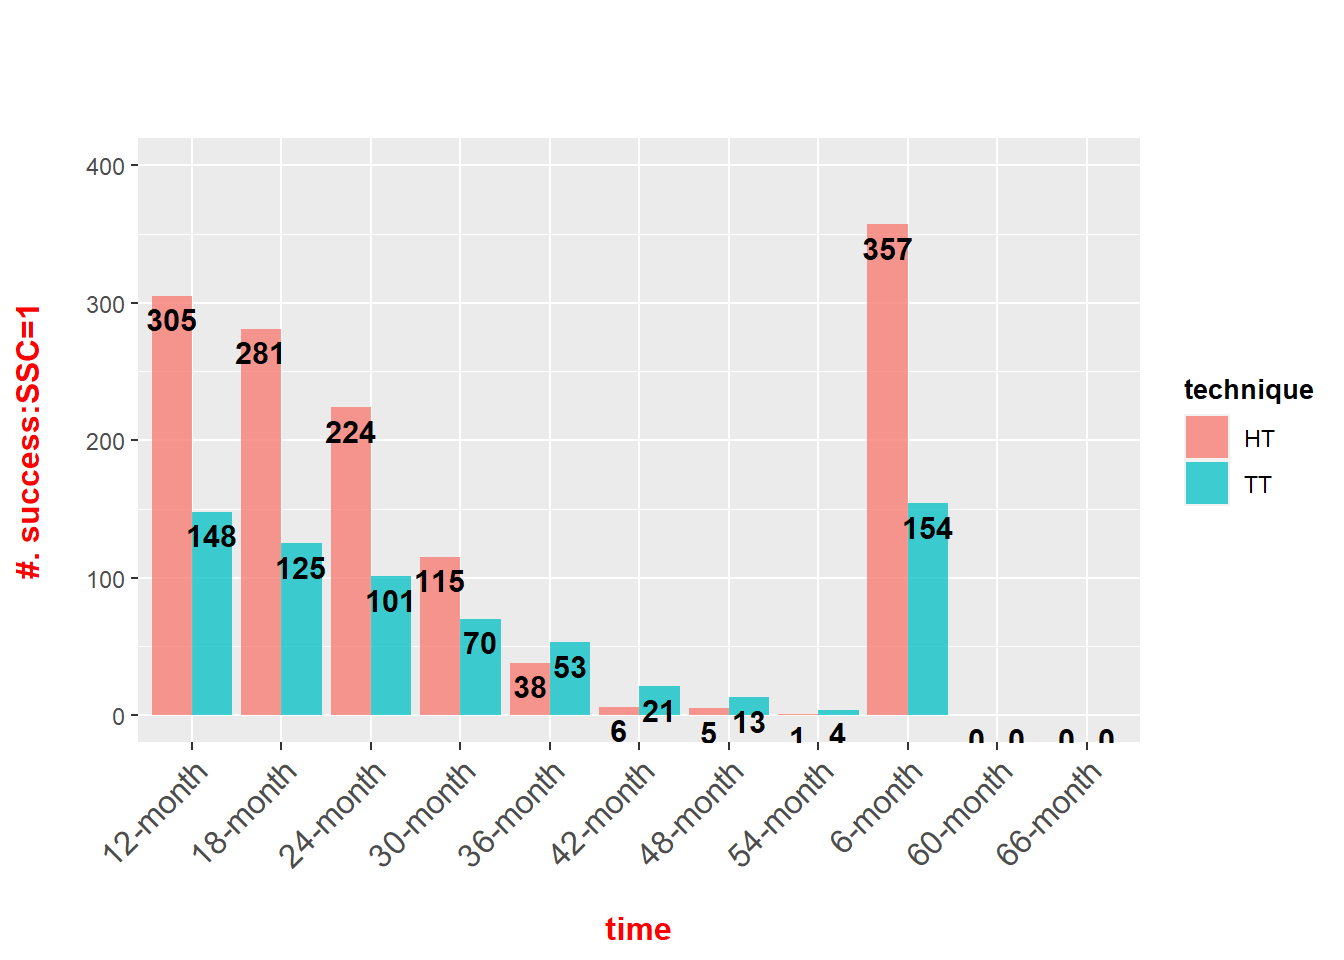
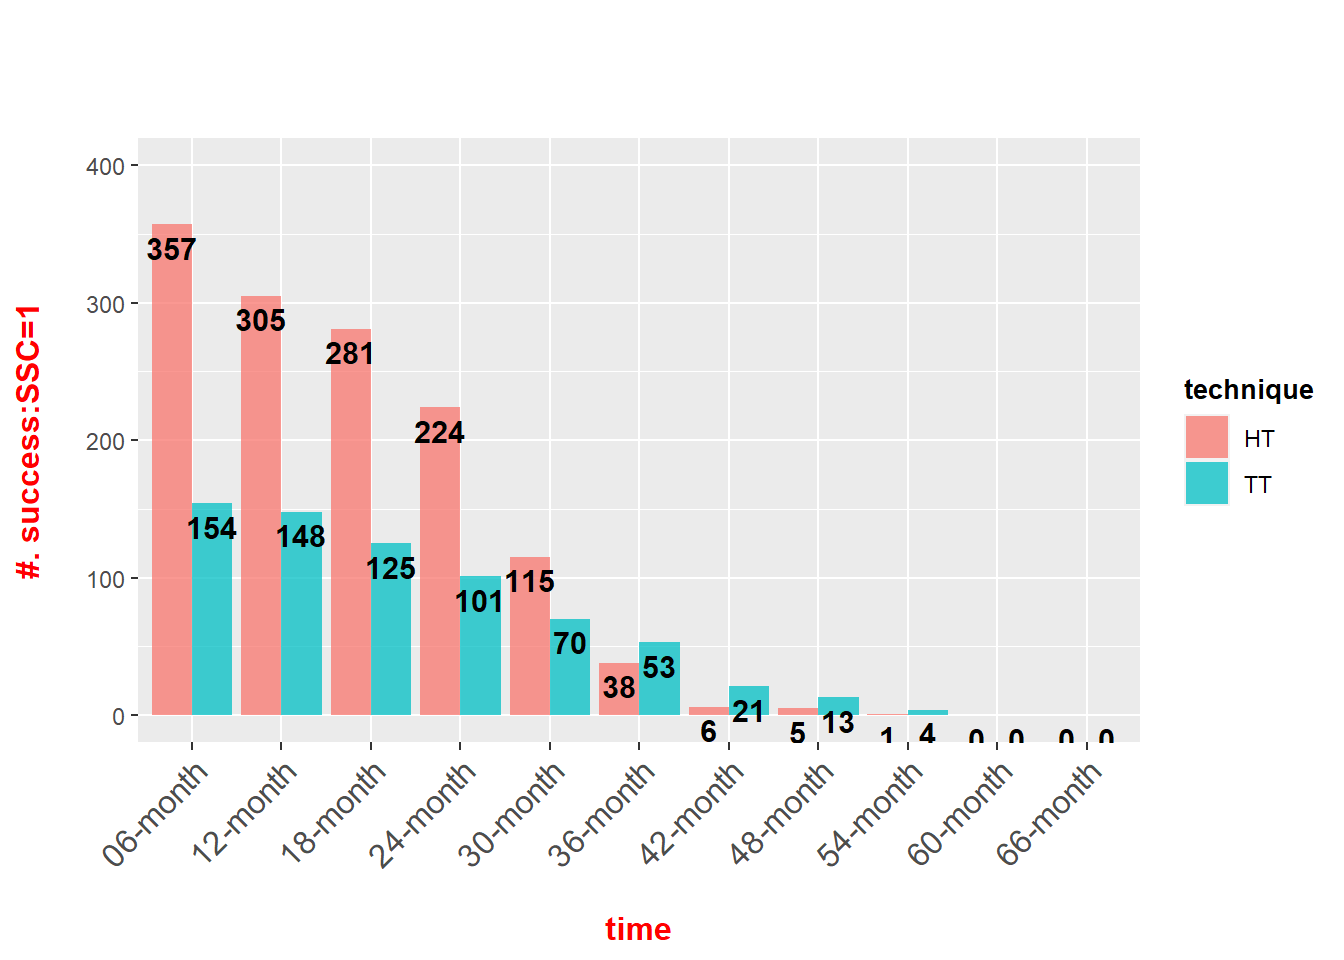
1/5/2024

diff --git a/docs/2023_12_03_Cem.html b/docs/2023_12_03_Cem.html
@@ -388,7 +388,7 @@ aria-hidden="true"></span> </a>
 <div class="tab-content">
 <div id="summary" class="tab-pane fade in active">
 <p>
-<strong>Last updated:</strong> 2024-01-03
+<strong>Last updated:</strong> 2024-01-05
 </p>
 <p>
 <strong>Checks:</strong> <span
@@ -548,15 +548,15 @@ analysis/Rfunctions.R
 <div class="panel panel-default">
 <div class="panel-heading">
 <p class="panel-title">
-<a data-toggle="collapse" data-parent="#workflowr-checks" href="#strongRepositoryversionstrongahrefhttpsgithubcomhan16Collaborationstreecdd95b881920452af39bebbe04ea437f1853349btargetblankcdd95b8a">
+<a data-toggle="collapse" data-parent="#workflowr-checks" href="#strongRepositoryversionstrongahrefhttpsgithubcomhan16Collaborationstree7b9322bb209fba268c4d2120e4bcfdff76a8ae0ftargetblank7b9322ba">
 <span class="glyphicon glyphicon-ok text-success"
 aria-hidden="true"></span> <strong>Repository version:</strong>
-<a href="https://github.com/han16/Collaborations/tree/cdd95b881920452af39bebbe04ea437f1853349b" target="_blank">cdd95b8</a>
+<a href="https://github.com/han16/Collaborations/tree/7b9322bb209fba268c4d2120e4bcfdff76a8ae0f" target="_blank">7b9322b</a>
 </a>
 </p>
 </div>
 <div
[2 lines of base64/hex data omitted]
 class="panel-collapse collapse">
 <div class="panel-body">
 <p>
@@ -566,7 +566,7 @@ reproducibility.
 </p>
 <p>
 The results in this page were generated with repository version
-<a href="https://github.com/han16/Collaborations/tree/cdd95b881920452af39bebbe04ea437f1853349b" target="_blank">cdd95b8</a>.
+<a href="https://github.com/han16/Collaborations/tree/7b9322bb209fba268c4d2120e4bcfdff76a8ae0f" target="_blank">7b9322b</a>.
 See the <em>Past versions</em> tab to see a history of the changes made
 to the R Markdown and HTML files.
 </p>
@@ -587,6 +587,7 @@ Ignored files:
 
 Unstaged changes:
     Modified:   analysis/2023_12_03_Cem.Rmd
+    Modified:   analysis/Rfunctions.R
 
 </code></pre>
 <p>
@@ -632,6 +633,40 @@ Message
 </tr>
 </thead>
 <tbody>
+<tr>
+<td>
+Rmd
+</td>
+<td>
+<a href="https://github.com/han16/Collaborations/blob/ad3ea5187f17a08eb92999b941b75113edc1a386/analysis/2023_12_03_Cem.Rmd" target="_blank">ad3ea51</a>
+</td>
+<td>
+han
+</td>
+<td>
+2024-01-03
+</td>
+<td>
+1/3/2024
+</td>
+</tr>
+<tr>
+<td>
+html
+</td>
+<td>
+<a href="https://rawcdn.githack.com/han16/Collaborations/ad3ea5187f17a08eb92999b941b75113edc1a386/docs/2023_12_03_Cem.html" target="_blank">ad3ea51</a>
+</td>
+<td>
+han
+</td>
+<td>
+2024-01-03
+</td>
+<td>
+1/3/2024
+</td>
+</tr>
 <tr>
 <td>
 Rmd
@@ -726,7 +761,73 @@ han
 </div>
 <div id="survival-analysis-of-sscs" class="section level2">
 <h2>survival analysis of SSCs</h2>
-<p><img src="figure/2023_12_03_Cem.Rmd/unnamed-chunk-2-1.png" width="672" style="display: block; margin: auto;" /></p>
+<div id="basic-numbers" class="section level3">
+<h3>basic numbers</h3>
+<p><img src="figure/2023_12_03_Cem.Rmd/unnamed-chunk-2-1.png" width="672" style="display: block; margin: auto;" />
+* only include HT and TT</p>
+</div>
+<div id="kaplan-meier-survival-analyses" class="section level3">
+<h3>Kaplan-Meier survival analyses</h3>
+<pre><code>Call: survfit(formula = Surv(survival_time, status) ~ 1, data = data_ssc_survival_complete)
+
+ time n.risk n.event survival std.err lower 95% CI upper 95% CI
+    0    698     187  0.73209 0.01676      0.69996       0.7657
+    6    511      58  0.64900 0.01807      0.61454       0.6854
+   12    453      47  0.58166 0.01867      0.54619       0.6194
+   18    406      81  0.46562 0.01888      0.43004       0.5041
+   24    325     140  0.26504 0.01671      0.23424       0.2999
+   30    185      94  0.13037 0.01274      0.10764       0.1579
+   36     91      64  0.03868 0.00730      0.02672       0.0560
+   42     27       9  0.02579 0.00600      0.01635       0.0407
+   48     18      13  0.00716 0.00319      0.00299       0.0172
+   54      5       5  0.00000     NaN           NA           NA</code></pre>
+<pre><code>List of 16
+ $ n        : int 698
+ $ time     : num [1:10] 0 6 12 18 24 30 36 42 48 54
+ $ n.risk   : num [1:10] 698 511 453 406 325 185 91 27 18 5
+ $ n.event  : num [1:10] 187 58 47 81 140 94 64 9 13 5
+ $ n.censor : num [1:10] 0 0 0 0 0 0 0 0 0 0
+ $ surv     : num [1:10] 0.732 0.649 0.582 0.466 0.265 ...
+ $ std.err  : num [1:10] 0.0229 0.0278 0.0321 0.0405 0.063 ...
+ $ cumhaz   : num [1:10] 0.268 0.381 0.485 0.685 1.115 ...
+ $ std.chaz : num [1:10] 0.0196 0.0246 0.0289 0.0364 0.0515 ...
+ $ type     : chr &quot;right&quot;
+ $ logse    : logi TRUE
+ $ conf.int : num 0.95
+ $ conf.type: chr &quot;log&quot;
+ $ lower    : num [1:10] 0.7 0.615 0.546 0.43 0.234 ...
+ $ upper    : num [1:10] 0.766 0.685 0.619 0.504 0.3 ...
+ $ call     : language survfit(formula = Surv(survival_time, status) ~ 1, data = data_ssc_survival_complete)
+ - attr(*, &quot;class&quot;)= chr &quot;survfit&quot;</code></pre>
+<pre><code>Call: survfit(formula = Surv(survival_time, status) ~ 1, data = data_ssc_survival_complete)
+
+ time n.risk n.event survival std.err lower 95% CI upper 95% CI
+    0    698     187  0.73209 0.01676      0.69996       0.7657
+    6    511      58  0.64900 0.01807      0.61454       0.6854
+   12    453      47  0.58166 0.01867      0.54619       0.6194
+   18    406      81  0.46562 0.01888      0.43004       0.5041
+   24    325     140  0.26504 0.01671      0.23424       0.2999
+   30    185      94  0.13037 0.01274      0.10764       0.1579
+   36     91      64  0.03868 0.00730      0.02672       0.0560
+   42     27       9  0.02579 0.00600      0.01635       0.0407
+   48     18      13  0.00716 0.00319      0.00299       0.0172
+   54      5       5  0.00000     NaN           NA           NA</code></pre>
+<p><img src="figure/2023_12_03_Cem.Rmd/unnamed-chunk-3-1.png" width="672" style="display: block; margin: auto;" /><img src="figure/2023_12_03_Cem.Rmd/unnamed-chunk-3-2.png" width="672" style="display: block; margin: auto;" /><img src="figure/2023_12_03_Cem.Rmd/unnamed-chunk-3-3.png" width="672" style="display: block; margin: auto;" /><img src="figure/2023_12_03_Cem.Rmd/unnamed-chunk-3-4.png" width="672" style="display: block; margin: auto;" /></p>
+<p>*<a
+href="https://www.emilyzabor.com/tutorials/survival_analysis_in_r_tutorial.html">reference</a></p>
+<pre><code>Call:
+survdiff(formula = Surv(survival_time, status) ~ SSC_Placement_Technique, 
+    data = data_ssc_survival_complete)
+
+                            N Observed Expected (O-E)^2/E (O-E)^2/V
+SSC_Placement_Technique=1 225      225      255      3.48      9.01
+SSC_Placement_Technique=2 473      473      443      2.00      9.01
+
+ Chisq= 9  on 1 degrees of freedom, p= 0.003 </code></pre>
+<ul>
+<li>there is a significant difference in survival time between TT and
+HT</li>
+</ul>
 <br>
 <p>
 <button type="button" class="btn btn-default btn-workflowr btn-workflowr-sessioninfo" data-toggle="collapse" data-target="#workflowr-sessioninfo" style="display: block;">
@@ -754,39 +855,42 @@ attached base packages:
 [8] base     
 
 other attached packages:
- [1] irr_0.84.1         lpSolve_5.6.18     readxl_1.4.2       cowplot_1.1.1     
- [5] matrixStats_0.63.0 gridExtra_2.3      DT_0.27            rstatix_0.7.2     
- [9] ggpubr_0.6.0       kableExtra_1.3.4   forcats_1.0.0      stringr_1.5.0     
-[13] dplyr_1.0.10       purrr_1.0.1        readr_2.1.4        tidyr_1.3.0       
-[17] tibble_3.1.8       ggplot2_3.4.1      tidyverse_1.3.2   
+ [1] survival_3.4-0     condsurv_1.0.0     ggsurvfit_1.0.0    lubridate_1.9.2   
+ [5] irr_0.84.1         lpSolve_5.6.18     readxl_1.4.2       cowplot_1.1.1     
+ [9] matrixStats_0.63.0 gridExtra_2.3      DT_0.27            rstatix_0.7.2     
+[13] ggpubr_0.6.0       kableExtra_1.3.4   forcats_1.0.0      stringr_1.5.0     
+[17] dplyr_1.0.10       purrr_1.0.1        readr_2.1.4        tidyr_1.3.0       
+[21] tibble_3.1.8       ggplot2_3.4.1      tidyverse_1.3.2   
 
 loaded via a namespace (and not attached):
- [1] fs_1.5.2            lubridate_1.9.2     webshot_0.5.4      
- [4] httr_1.4.5          rprojroot_2.0.3     tools_4.2.2        
- [7] backports_1.4.1     bslib_0.4.2         utf8_1.2.2         
-[10] R6_2.5.1            DBI_1.1.3           colorspace_2.0-3   
-[13] withr_2.5.0         tidyselect_1.2.0    compiler_4.2.2     
-[16] git2r_0.31.0        cli_3.4.1           rvest_1.0.3        
-[19] xml2_1.3.3          labeling_0.4.2      sass_0.4.5         
-[22] scales_1.2.1        systemfonts_1.0.4   digest_0.6.31      
-[25] rmarkdown_2.20      svglite_2.1.1       pkgconfig_2.0.3    
-[28] htmltools_0.5.4     dbplyr_2.3.0        fastmap_1.1.0      
-[31] highr_0.10          htmlwidgets_1.6.1   rlang_1.0.6        
-[34] rstudioapi_0.14     farver_2.1.1        jquerylib_0.1.4    
-[37] generics_0.1.3      jsonlite_1.8.4      car_3.1-1          
-[40] googlesheets4_1.0.1 magrittr_2.0.3      Rcpp_1.0.9         
-[43] munsell_0.5.0       fansi_1.0.3         abind_1.4-5        
-[46] lifecycle_1.0.3     stringi_1.7.8       whisker_0.4.1      
-[49] yaml_2.3.7          carData_3.0-5       promises_1.2.0.1   
-[52] crayon_1.5.2        haven_2.5.1         hms_1.1.2          
-[55] knitr_1.42          pillar_1.8.1        ggsignif_0.6.4     
-[58] reprex_2.0.2        glue_1.6.2          evaluate_0.20      
-[61] modelr_0.1.10       vctrs_0.5.2         tzdb_0.3.0         
-[64] httpuv_1.6.9        cellranger_1.1.0    gtable_0.3.1       
-[67] assertthat_0.2.1    cachem_1.0.7        xfun_0.37          
-[70] broom_1.0.3         later_1.3.0         googledrive_2.0.0  
-[73] viridisLite_0.4.1   gargle_1.3.0        workflowr_1.7.0    
-[76] timechange_0.2.0    ellipsis_0.3.2     </code></pre>
+ [1] fs_1.6.3            webshot_0.5.4       httr_1.4.5         
+ [4] rprojroot_2.0.3     tools_4.2.2         backports_1.4.1    
+ [7] bslib_0.4.2         utf8_1.2.2          R6_2.5.1           
+[10] DBI_1.1.3           colorspace_2.0-3    withr_2.5.0        
+[13] tidyselect_1.2.0    compiler_4.2.2      git2r_0.31.0       
+[16] cli_3.4.1           rvest_1.0.3         xml2_1.3.3         
+[19] labeling_0.4.2      sass_0.4.5          scales_1.2.1       
+[22] systemfonts_1.0.4   digest_0.6.31       rmarkdown_2.20     
+[25] svglite_2.1.1       pkgconfig_2.0.3     htmltools_0.5.4    
+[28] dbplyr_2.3.0        fastmap_1.1.0       highr_0.10         
+[31] htmlwidgets_1.6.1   rlang_1.0.6         rstudioapi_0.14    
+[34] farver_2.1.1        jquerylib_0.1.4     generics_0.1.3     
+[37] jsonlite_1.8.4      car_3.1-1           googlesheets4_1.0.1
+[40] magrittr_2.0.3      patchwork_1.1.3     Matrix_1.5-1       
+[43] Rcpp_1.0.9          munsell_0.5.0       fansi_1.0.3        
+[46] abind_1.4-5         lifecycle_1.0.3     stringi_1.7.8      
+[49] whisker_0.4.1       yaml_2.3.7          carData_3.0-5      
+[52] promises_1.2.0.1    crayon_1.5.2        lattice_0.20-45    
+[55] splines_4.2.2       haven_2.5.1         hms_1.1.2          
+[58] knitr_1.42          pillar_1.9.0        ggsignif_0.6.4     
+[61] reprex_2.0.2        glue_1.6.2          evaluate_0.20      
+[64] modelr_0.1.10       vctrs_0.5.2         tzdb_0.3.0         
+[67] httpuv_1.6.9        cellranger_1.1.0    gtable_0.3.1       
+[70] assertthat_0.2.1    cachem_1.0.7        xfun_0.37          
+[73] broom_1.0.3         later_1.3.0         googledrive_2.0.0  
+[76] viridisLite_0.4.1   gargle_1.3.0        workflowr_1.7.0    
+[79] timechange_0.2.0    ellipsis_0.3.2     </code></pre>
+</div>
 </div>
 </div>
 
